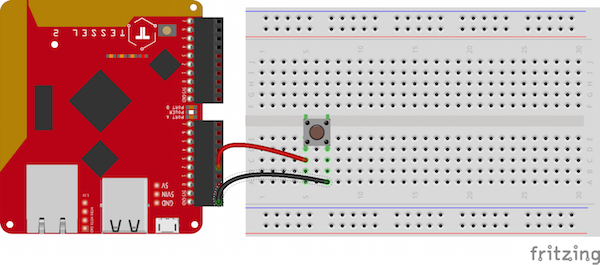
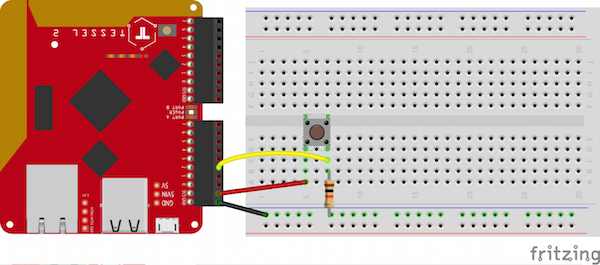
Update example to use positive logic.

Changed region(s): [[0.36, 0.5132, 0.63, 0.8453], [0.66, 0.7849, 0.96, 0.8453], [0.0, 0.9962, 0.24, 1.0]]

diff --git a/hardware-api.md b/hardware-api.md
@@ -101,10 +101,9 @@ pin.analogRead(function(error, value) {
 Interrupts allow us to register events based on state changes in a pin. Pins
 2, 5, 6, 7 on both Ports are available for interrupts.
 
-Take a look at the following circuit. We've connected Port A pin2 to ground
-via a button. Before we press the button, circuit is open and the voltage at
-pin2 will be high. When the button is pressed we'll complete the circuit
-and the voltage at pin2 will fall.
+Take a look at the following circuit. While the switch is open, pin2 will be
+low. When the button is pressed we'll complete the circuit and the voltage at
+pin2 will rise to 3.3V.
 
 ![Interrupt Circuit](images/interrupt-circuit.png)
 
@@ -126,7 +125,7 @@ setInterval(function() {
   pin2.read(function(error, value) {
 
     // button was pressed
-    if (value === 0) {
+    if (value === 1) {
       green.on();
     }
   });
@@ -136,7 +135,7 @@ setInterval(function() {
 
 This is pretty inefficient. We're spending a lot of time (every 10 millseconds)
 manually checking to see if the button was pressed. Let's just tell the
-processor to run some code when the voltage drops.
+processor to run some code when the voltage rises.
 
 ```js
 var tessel = require('tessel'); // Import tessel
@@ -148,16 +147,16 @@ var pin2 = tessel.port.A.pin[2];
 // Turn off the green LED
 green.off();
 
-// Register an event. When the voltage on pin2 falls, turn on the green LED.
-pin2.on('fall', function() {
+// Register an event. When the voltage on pin2 rises, turn on the green LED.
+pin2.on('rise', function() {
   green.on();
 });
 
 ```
 
-We tell the processor to invoke our callback function when pin2 falls (button
+We tell the processor to invoke our callback function when pin2 rises (button
 has been pressed). We don't have to continuously poll to see if the voltage
-has fallen. We can just register our listener and move on.
+has risen. We can just register our listener and move on.
 
 #### Usage
 
